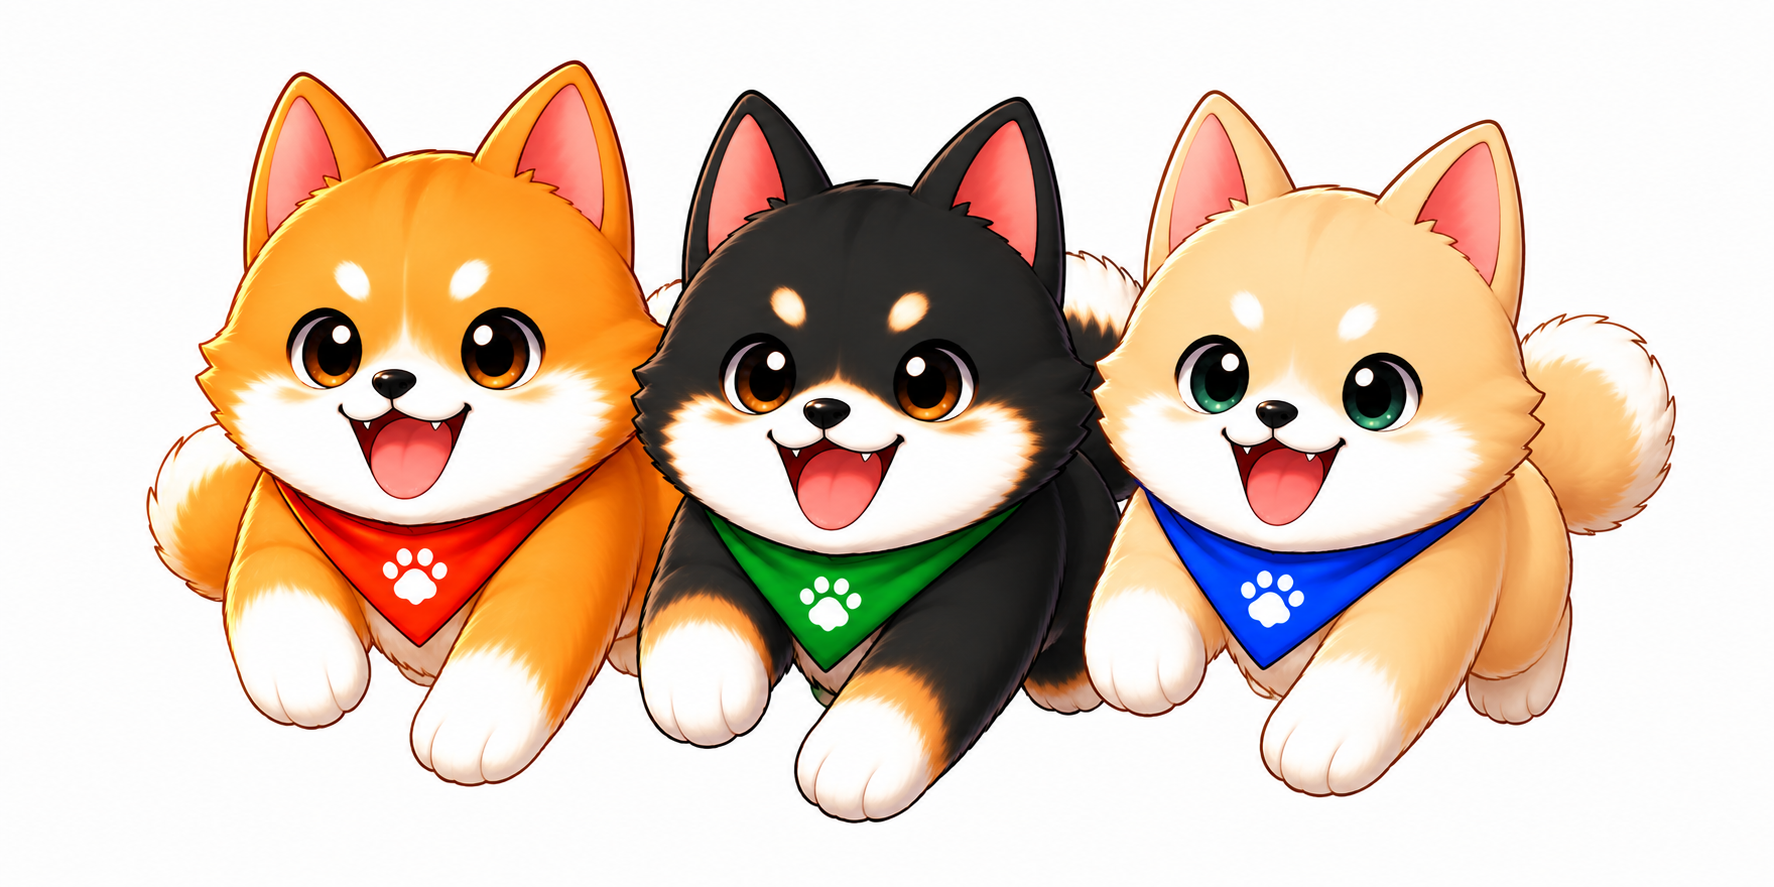
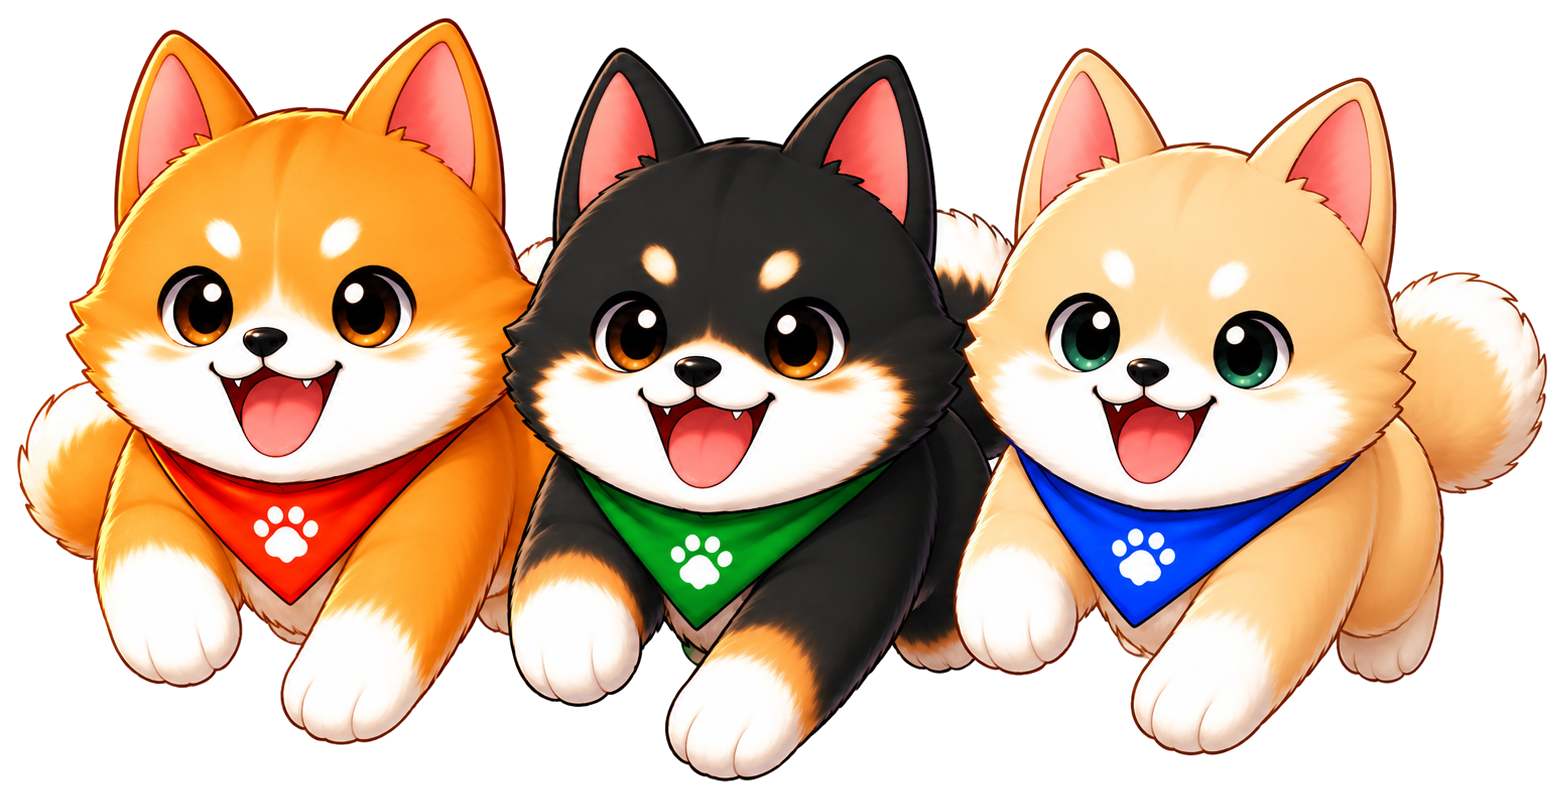
Add files via upload

diff --git a/style.css b/style.css
@@ -2184,3 +2184,89 @@ body.turn-last .turn-pill{
 .vu3-side-copy strong{display:block;font-size:21px}.vu3-side-copy span{display:block;margin-top:5px;font-size:11px}
 .dog-card .character-img{width:46px!important;height:46px!important;object-fit:cover!important;border-radius:50%!important;flex:0 0 auto!important;background:transparent!important}
 @media(max-height:740px){.vu3-home{grid-template-rows:minmax(0,27%) auto minmax(0,1fr) auto;gap:4px;padding-top:4px}.vu3-copy strong{font-size:21px}.vu3-copy span{font-size:9px;margin-top:3px}.vu3-mini{min-height:40px}}
+
+
+/* ===== Ver1.9 Visual Update 3a : home layout polish ===== */
+.visual-update3{
+  align-items:flex-start!important;
+  justify-content:flex-start!important;
+}
+.vu3-home{
+  grid-template-rows:minmax(0,32%) auto minmax(0,1fr) auto!important;
+  padding-top:max(10px,env(safe-area-inset-top))!important;
+}
+.vu3-brand{
+  display:flex!important;
+  flex-direction:column!important;
+  align-items:center!important;
+  justify-content:flex-start!important;
+  overflow:visible!important;
+  min-height:0!important;
+}
+.vu3-logo{
+  flex:0 0 clamp(76px,10.5vh,102px)!important;
+  width:min(92%,410px)!important;
+  height:clamp(76px,10.5vh,102px)!important;
+  max-width:100%!important;
+  object-fit:contain!important;
+  object-position:center!important;
+  display:block!important;
+  margin:0 auto 2px!important;
+}
+.vu3-hero{
+  flex:1 1 auto!important;
+  width:min(92%,410px)!important;
+  height:auto!important;
+  min-height:0!important;
+  max-height:calc(100% - clamp(78px,11vh,106px))!important;
+  object-fit:contain!important;
+  object-position:center!important;
+  display:block!important;
+  margin:0 auto!important;
+  border-radius:0!important;
+}
+.vu3-mode-art{
+  background:transparent!important;
+  border-radius:0!important;
+  object-fit:contain!important;
+}
+.vu3-vs .vu3-mode-art,
+.vu3-cpu .vu3-mode-art{
+  mix-blend-mode:multiply;
+}
+
+/* SVG icons: no CSS-shape glitches */
+.vu3-svg{
+  width:27px;
+  height:27px;
+  flex:0 0 auto;
+  fill:none;
+  stroke:var(--brown);
+  stroke-width:4;
+  stroke-linecap:round;
+  stroke-linejoin:round;
+}
+.vu3-svg.gear-svg{
+  width:30px;
+  height:30px;
+}
+.vu3-mini{
+  gap:8px!important;
+  font-size:12px!important;
+}
+.vu3-book,.vu3-sound,.vu3-gear{
+  display:none!important;
+}
+
+@media(max-height:740px){
+  .vu3-home{
+    grid-template-rows:minmax(0,29%) auto minmax(0,1fr) auto!important;
+  }
+  .vu3-logo{
+    flex-basis:66px!important;
+    height:66px!important;
+  }
+  .vu3-hero{
+    max-height:calc(100% - 68px)!important;
+  }
+}

diff --git a/index.html b/index.html
@@ -5,7 +5,7 @@
 <meta name="viewport" content="width=device-width, initial-scale=1, viewport-fit=cover">
 <meta name="theme-color" content="#FDFBF7">
 <title>にゃんチェイス</title>
-<link rel="stylesheet" href="./style.css?v=1.9.visual1c">
+<link rel="stylesheet" href="./style.css?v=1.9.visual3a">
 </head>
 <body>
 <div class="app">
@@ -81,9 +81,28 @@
       </button>
     </div>
     <div class="vu3-bottom">
-      <button class="vu3-mini" id="howToBtn" type="button"><span class="vu3-book"></span><span>遊び方</span></button>
-      <button class="vu3-mini" id="soundQuickBtn" type="button"><span class="vu3-sound"></span><span>サウンド</span></button>
-      <button class="vu3-mini" id="titleSettingsBtn" type="button"><span class="vu3-gear"></span><span>設定</span></button>
+      <button class="vu3-mini" id="howToBtn" type="button">
+        <svg class="vu3-svg" viewBox="0 0 64 64" aria-hidden="true">
+          <path d="M8 14c10-3 18-2 24 4v34c-7-6-15-7-24-4z"></path>
+          <path d="M56 14c-10-3-18-2-24 4v34c7-6 15-7 24-4z"></path>
+        </svg>
+        <span>遊び方</span>
+      </button>
+      <button class="vu3-mini" id="soundQuickBtn" type="button">
+        <svg class="vu3-svg sound-svg" viewBox="0 0 64 64" aria-hidden="true">
+          <path d="M10 25h12l14-11v36L22 39H10z"></path>
+          <path d="M43 23c5 5 5 13 0 18"></path>
+          <path d="M49 16c10 10 10 22 0 32"></path>
+        </svg>
+        <span>サウンド</span>
+      </button>
+      <button class="vu3-mini" id="titleSettingsBtn" type="button">
+        <svg class="vu3-svg gear-svg" viewBox="0 0 64 64" aria-hidden="true">
+          <path d="M27 6h10l2 8 7 4 8-2 5 9-6 6v8l6 6-5 9-8-2-7 4-2 8H27l-2-8-7-4-8 2-5-9 6-6v-8l-6-6 5-9 8 2 7-4z"></path>
+          <circle cx="32" cy="35" r="9"></circle>
+        </svg>
+        <span>設定</span>
+      </button>
     </div>
   </div>
 </div>
@@ -206,9 +225,9 @@
 
 <div class="motion-status" id="motionStatus"></div>
 <div class="confetti-layer" id="confettiLayer"></div>
-<script src="./engine.js?v=1.9.visual1c"></script>
-<script src="./audio.js?v=1.9.visual1c"></script>
-<script src="./animation.js?v=1.9.visual1c"></script>
-<script src="./game.js?v=1.9.visual1c"></script>
+<script src="./engine.js?v=1.9.visual3a"></script>
+<script src="./audio.js?v=1.9.visual3a"></script>
+<script src="./animation.js?v=1.9.visual3a"></script>
+<script src="./game.js?v=1.9.visual3a"></script>
 </body>
 </html>
